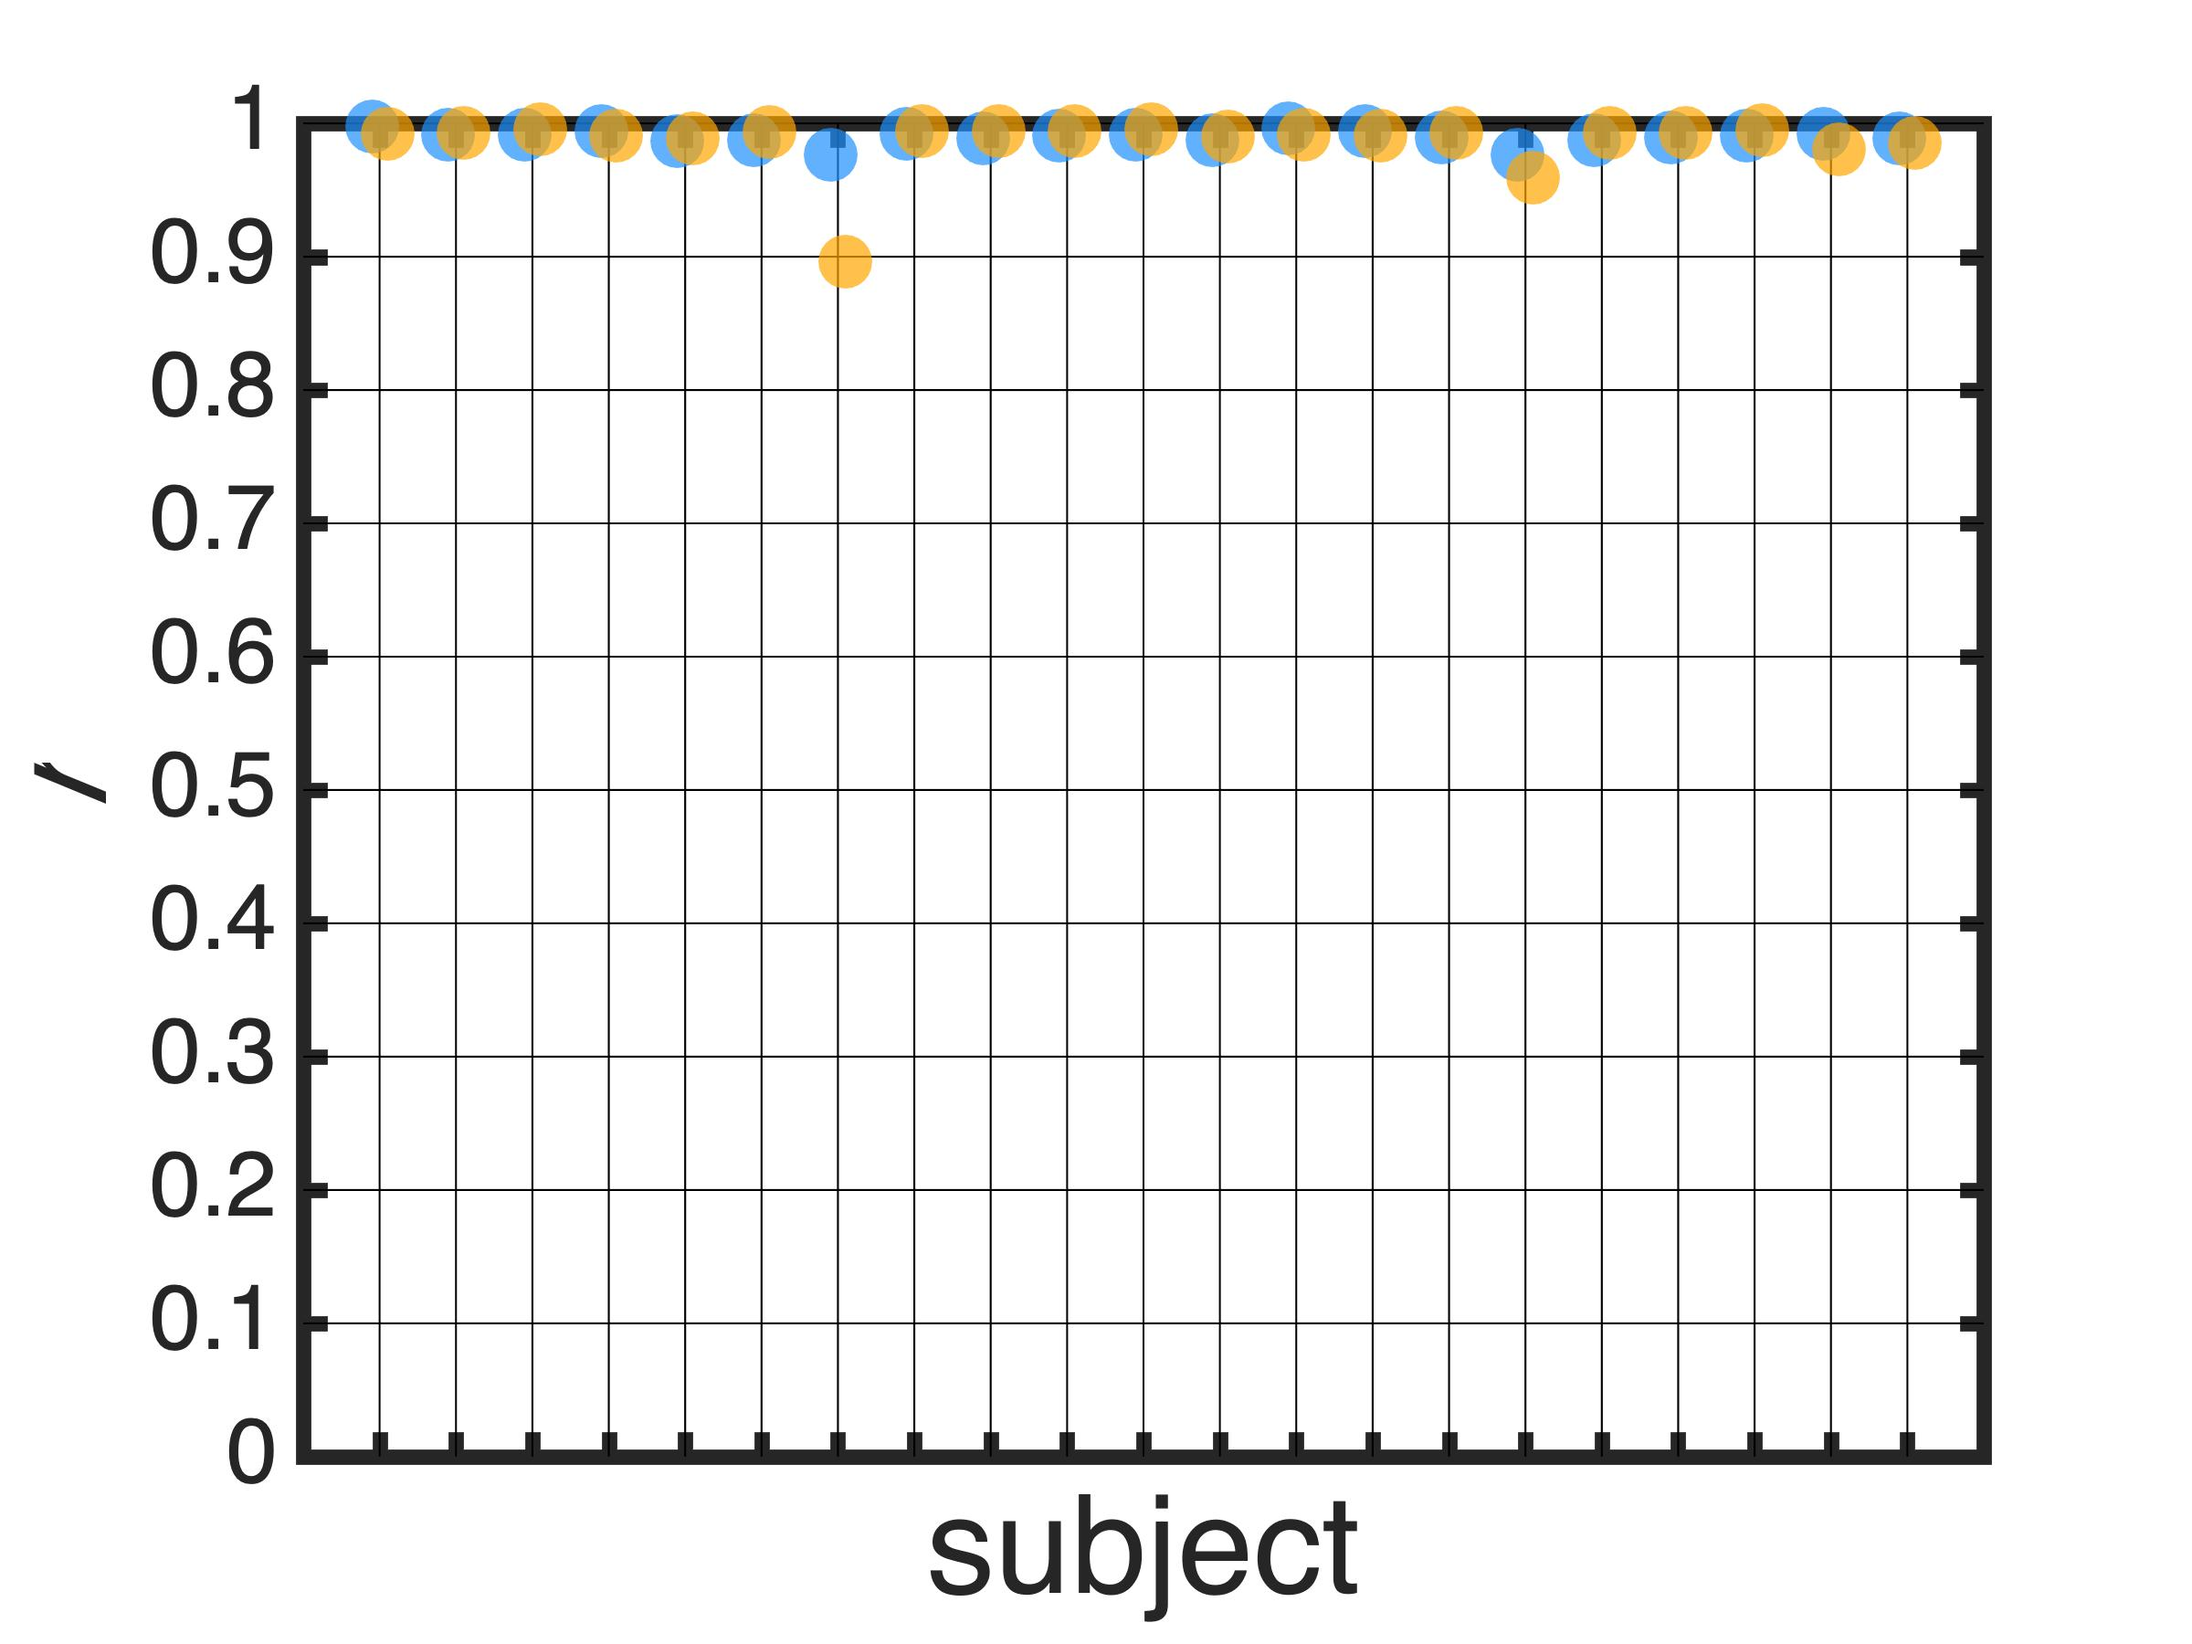
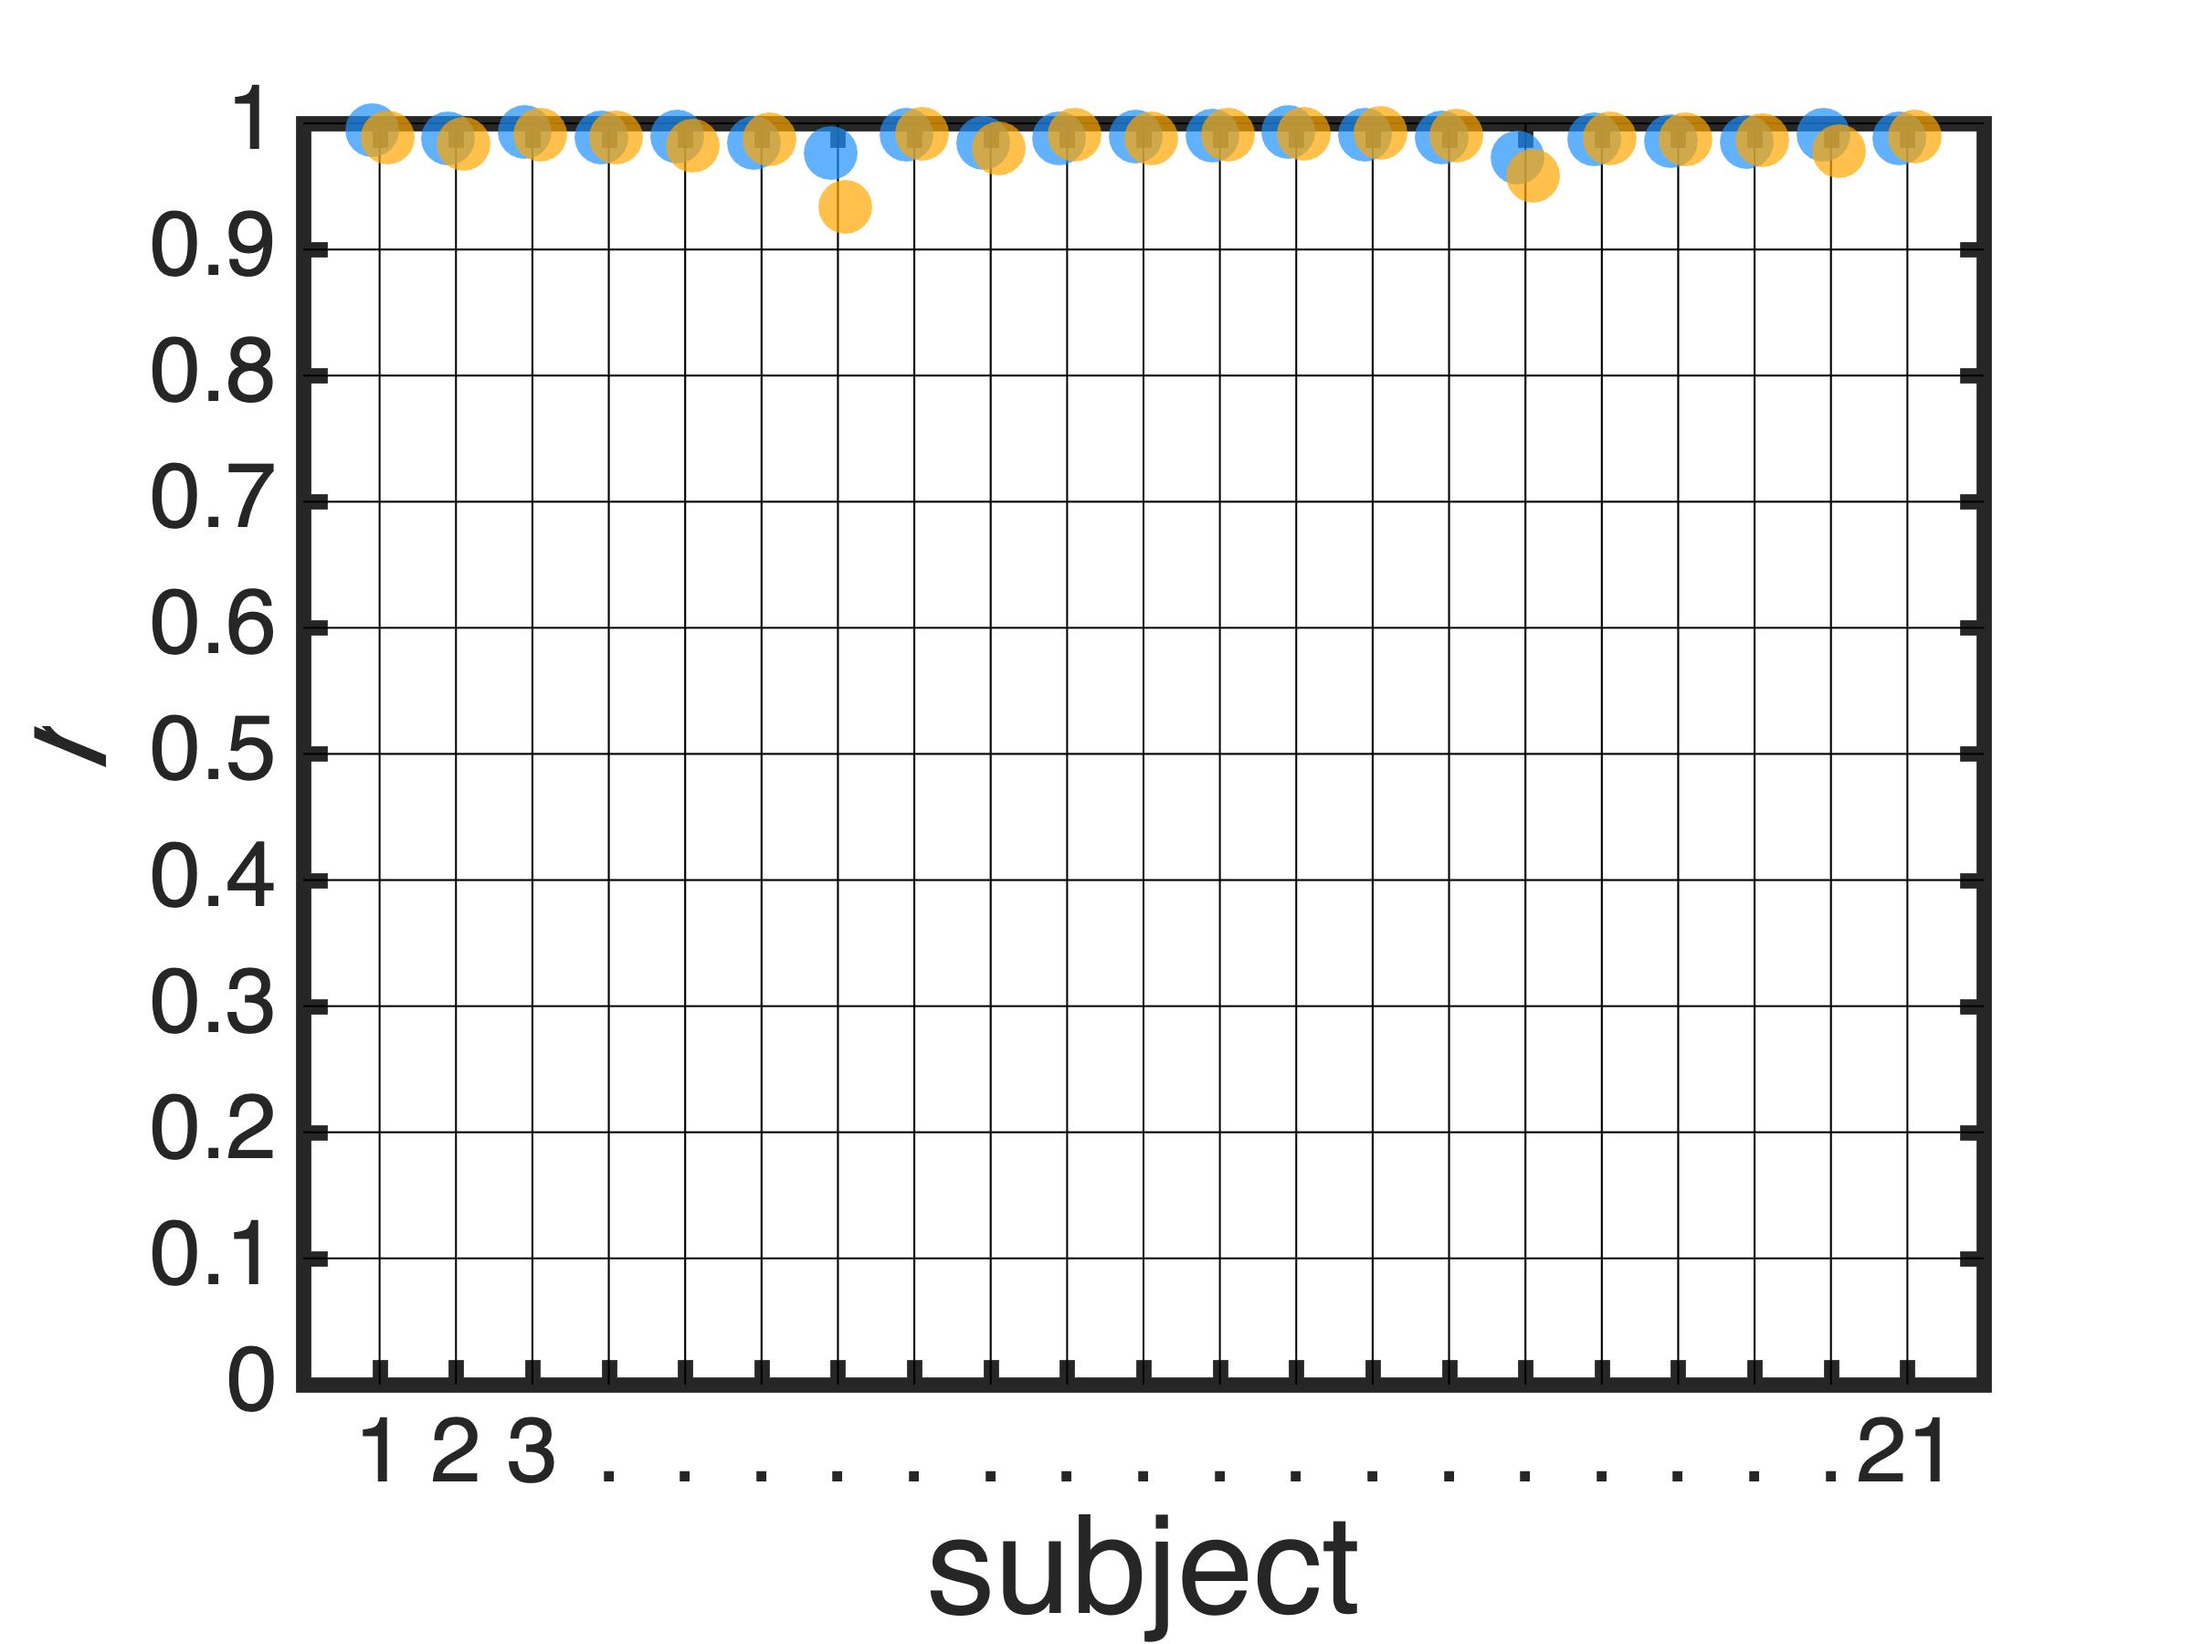
Revised figure

diff --git a/FigureS6B.m b/FigureS6B.m
@@ -149,7 +149,7 @@ scatter((1:length(sbj_v))+.1,r_con_other,ms,ocol,'filled','MarkerFaceAlpha',.7);
 % Tidy up
 xlim([0 22]);
 ylim([0 1]); 
-set(gca,'XTick',1:21,'XTickLabel',{''});
+set(gca,'XTick',1:21,'XTickLabel',{'1','2','3','.','.','.','.','.','.','.','.','.','.','.','.','.','.','.','.','.','21'});
 set(gca,'YTick',0:.1:1);
 set(gca,'LineWidth',lw,'FontSize',axisFS);
 ylabel('\it{r}','FontSize',labelFS);
